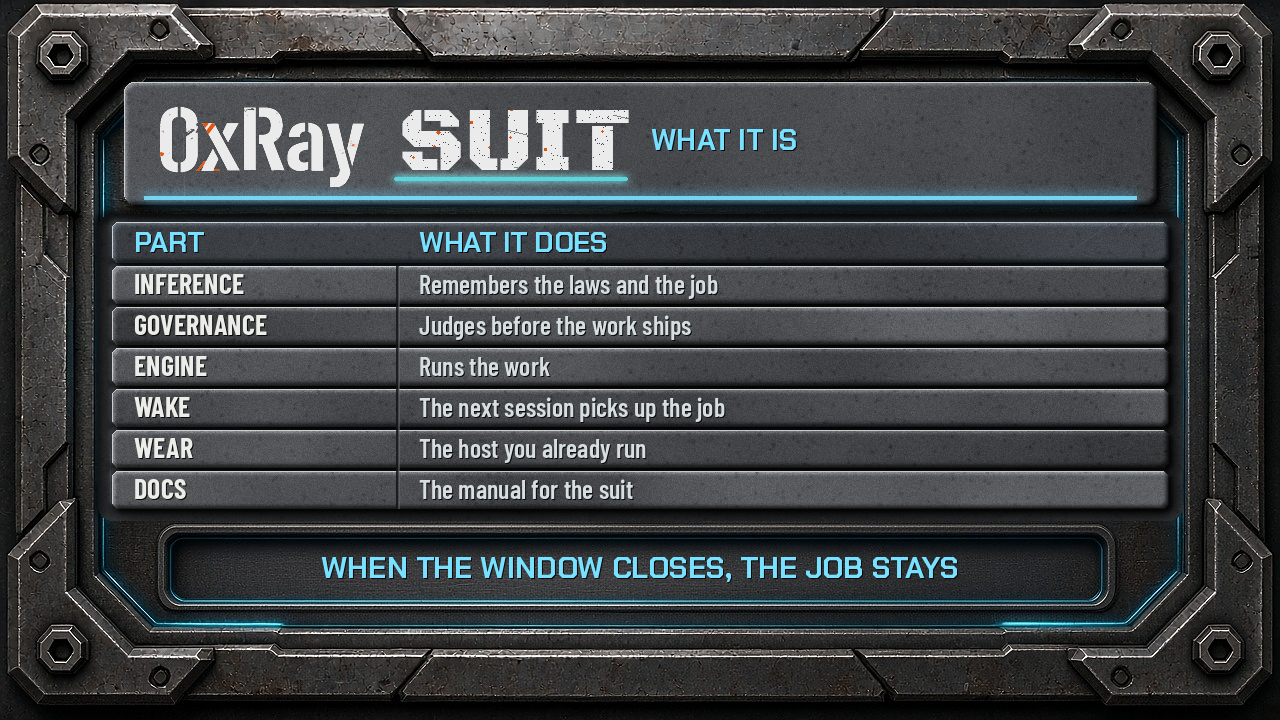
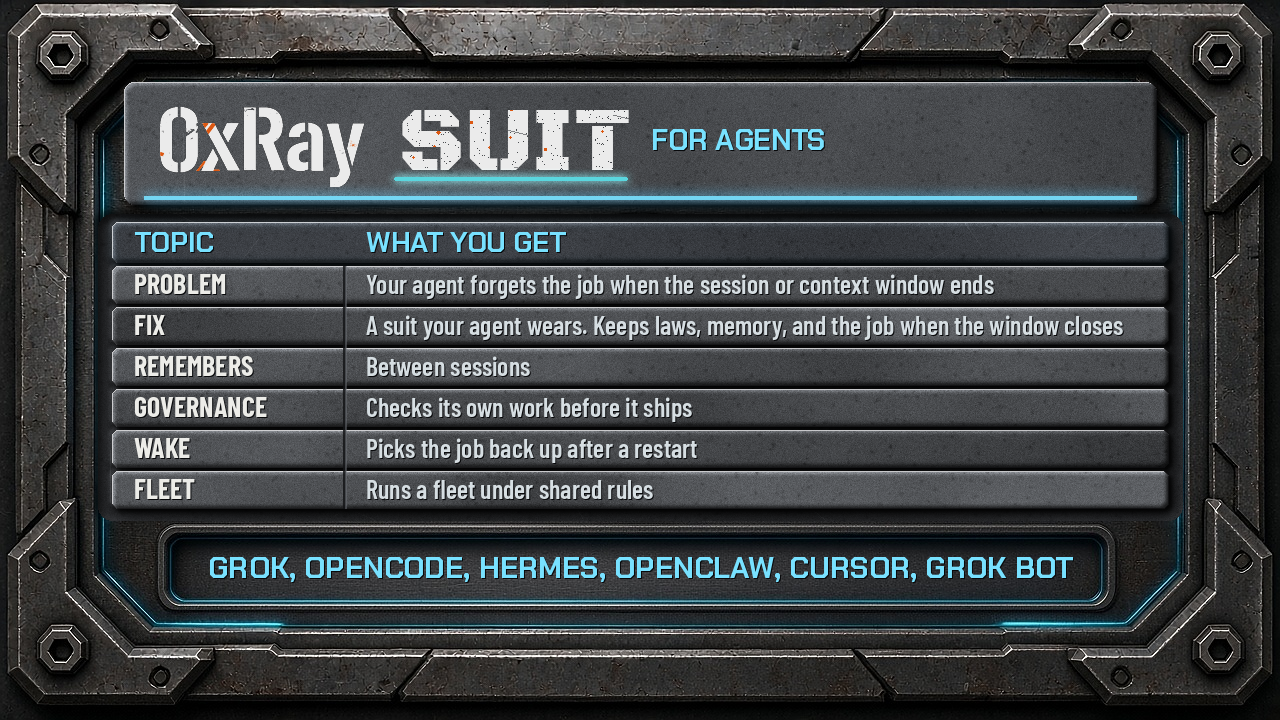
Plate content + install copy button (from xray#556 @4f2a733)

diff --git a/index.html b/index.html
@@ -241,7 +241,27 @@
     .links { display: grid; grid-template-columns: repeat(4, 1fr); }
     .docs-hero { display: block; width: 100%; height: auto; }
     .links a:hover { color: #fff; }
-    .links a:focus-visible, .site-footer a:focus-visible, .plate-open:focus-visible, .zoom-close:focus-visible, .faq summary:focus-visible {
+    .copy {
+      display: inline-flex;
+      align-items: center;
+      justify-content: center;
+      gap: 8px;
+      min-height: 44px;
+      margin: 0;
+      padding: 8px 14px;
+      border: 0;
+      border-radius: 8px;
+      cursor: pointer;
+      font-family: "Chakra Petch", sans-serif;
+      font-size: 16px;
+      letter-spacing: 0.12em;
+      color: var(--ink);
+      background: linear-gradient(180deg, #4a4e52, #1c1e20);
+      box-shadow: inset 0 1px 0 rgba(255,255,255,0.35), 0 4px 0 #0c0d0e;
+    }
+    .copy svg { display: block; width: 18px; height: 18px; }
+    .copy.is-copied { color: var(--cyan); }
+    .links a:focus-visible, .site-footer a:focus-visible, .plate-open:focus-visible, .zoom-close:focus-visible, .faq summary:focus-visible, .copy:focus-visible {
       outline: 2px solid var(--orange);
       outline-offset: 3px;
     }
@@ -377,6 +397,7 @@
     @media (max-width: 800px) {
       .plate-open { margin-top: 20px; }
       .install { flex-direction: column; align-items: flex-start; }
+      .copy { align-self: stretch; }
       .install code { font-size: 24px; }
       .links { grid-template-columns: 1fr 1fr; }
       .faq details p { font-size: 20px; }
@@ -397,12 +418,19 @@
 <body>
   <img class="docs-hero" src="assets/readme-hero.jpg" width="1280" height="720" alt="0xRay — A Power Suit for AI Agents. survive compaction. build foundries. monitor the swarm." />
   <button type="button" class="plate-open" id="plate-open" aria-haspopup="dialog" aria-controls="plate-zoom">
-    <img class="plate" src="assets/apex.png" width="1280" height="720" alt="Stamped metal plate. Drawn 0xRay mark. Suit: Inference remembers the laws and the job. Governance judges before the work ships. Engine runs the work. Wake: the next session picks up the job." />
+    <img class="plate" src="assets/apex.png" width="1280" height="720" alt="Stamped metal plate with the drawn 0xRay mark. Problem: your agent forgets the job when the session or context window ends. Fix: a suit your agent wears that keeps the laws, memory, and job when the window closes. You get memory between sessions, a check before work ships, wake after a restart, and a fleet under shared rules. Works with Grok, OpenCode, Hermes, OpenClaw, Cursor, and Grok Bot." />
   </button>
   <main>
     <div class="install">
       <span>INSTALL</span>
-      <code>npm i -g 0xray</code>
+      <code id="install-line">npm i -g 0xray</code>
+      <button type="button" class="copy" id="install-copy">
+        <svg viewBox="0 0 24 24" aria-hidden="true" focusable="false">
+          <rect x="8" y="8" width="12" height="12" rx="2" fill="none" stroke="currentColor" stroke-width="2"></rect>
+          <path d="M6 16H5a2 2 0 0 1-2-2V5a2 2 0 0 1 2-2h9a2 2 0 0 1 2 2v1" fill="none" stroke="currentColor" stroke-width="2"></path>
+        </svg>
+        <span id="install-copy-label" aria-live="polite">Copy</span>
+      </button>
     </div>
     <ul class="links">
       <li><a href="https://docs.0xray.dev">DOCS</a></li>
@@ -485,7 +513,7 @@
   </footer>
   <div id="plate-zoom" class="lightbox" hidden role="dialog" aria-modal="true" aria-label="Stamped plate, full size">
     <button type="button" class="zoom-close" id="plate-close" aria-label="Close">X</button>
-    <img class="plate-full" src="assets/apex.png" width="1280" height="720" alt="Stamped plate at full size." />
+    <img class="plate-full" src="assets/apex.png" width="1280" height="720" alt="Stamped plate at full size. Problem, the suit, what you get, and the hosts it works with." />
   </div>
   <script>
     (function () {
@@ -508,6 +536,44 @@
       document.addEventListener('keydown', function (event) {
         if (event.key === 'Escape') hide();
       });
+
+      var copyBtn = document.getElementById('install-copy');
+      var copyLabel = document.getElementById('install-copy-label');
+      var copyTimer = 0;
+      function fallbackCopy(text) {
+        var area = document.createElement('textarea');
+        area.value = text;
+        area.setAttribute('readonly', '');
+        area.style.position = 'fixed';
+        area.style.top = '0';
+        area.style.left = '0';
+        area.style.opacity = '0';
+        document.body.appendChild(area);
+        area.focus();
+        area.select();
+        area.setSelectionRange(0, text.length);
+        var ok = document.execCommand('copy');
+        document.body.removeChild(area);
+        if (!ok) throw new Error('copy failed');
+      }
+      function copyInstall() {
+        var text = document.getElementById('install-line').textContent;
+        var write = navigator.clipboard && navigator.clipboard.writeText
+          ? navigator.clipboard.writeText(text)
+          : Promise.reject();
+        write.catch(function () { fallbackCopy(text); }).then(function () {
+          copyBtn.classList.add('is-copied');
+          copyLabel.textContent = 'Copied';
+          window.clearTimeout(copyTimer);
+          copyTimer = window.setTimeout(function () {
+            copyBtn.classList.remove('is-copied');
+            copyLabel.textContent = 'Copy';
+          }, 1600);
+        }, function () {
+          copyLabel.textContent = 'Copy';
+        });
+      }
+      copyBtn.addEventListener('click', copyInstall);
     }());
   </script>
 </body>
